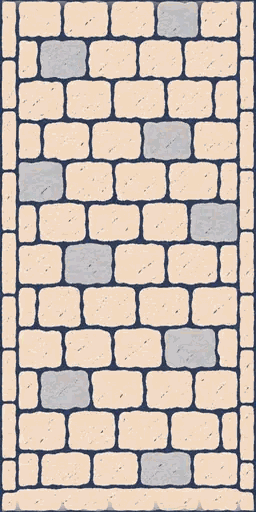
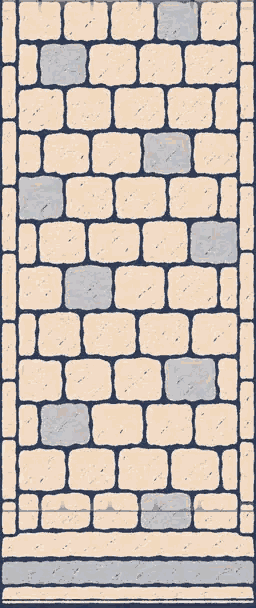
全区の道・門・道ばたの小物を絵に、今日の依頼を達成した日は金の消印。v=67
Claude-Session: https://claude.ai/code/session_01NxsVqWd6E8wULWa2eDL34e

diff --git a/products/word-guild/sw.js b/products/word-guild/sw.js
@@ -1,5 +1,5 @@
-const VERSION = 'c391196c';
-const PRECACHE = ["./album.css","./app.mjs","./art/atenashi.webp","./art/body-action.webp","./art/body-body.webp","./art/body-doc.webp","./art/body-food.webp","./art/body-goods.webp","./art/body-mind.webp","./art/body-money.webp","./art/body-move.webp","./art/body-nature.webp","./art/body-number.webp","./art/body-person.webp","./art/body-place.webp","./art/body-state.webp","./art/body-time.webp","./art/body-tool.webp","./art/body-work.webp","./art/fuurou-normal.webp","./art/fuurou-stamp.webp","./art/gate-2-door-l.webp","./art/gate-2-door-r.webp","./art/gate-2.webp","./art/hatori-normal.webp","./art/hatori-smile.webp","./art/hokoridama.webp","./art/house-1.webp","./art/house-10.webp","./art/house-11.webp","./art/house-12.webp","./art/house-13.webp","./art/house-14.webp","./art/house-15.webp","./art/house-16.webp","./art/house-17.webp","./art/house-18.webp","./art/house-19.webp","./art/house-2.webp","./art/house-20.webp","./art/house-21.webp","./art/house-22.webp","./art/house-23.webp","./art/house-24.webp","./art/house-25.webp","./art/house-26.webp","./art/house-27.webp","./art/house-28.webp","./art/house-29.webp","./art/house-3.webp","./art/house-30.webp","./art/house-31.webp","./art/house-32.webp","./art/house-33.webp","./art/house-34.webp","./art/house-35.webp","./art/house-36.webp","./art/house-37.webp","./art/house-38.webp","./art/house-39.webp","./art/house-4.webp","./art/house-40.webp","./art/house-41.webp","./art/house-42.webp","./art/house-43.webp","./art/house-44.webp","./art/house-45.webp","./art/house-46.webp","./art/house-47.webp","./art/house-48.webp","./art/house-49.webp","./art/house-5.webp","./art/house-50.webp","./art/house-51.webp","./art/house-52.webp","./art/house-53.webp","./art/house-54.webp","./art/house-55.webp","./art/house-56.webp","./art/house-6.webp","./art/house-7.webp","./art/house-8.webp","./art/house-9.webp","./art/icon-180.png","./art/icon-192.png","./art/icon-512.png","./art/keshikasu.webp","./art/key-visual.webp","./art/nijimi.webp","./art/open-2.webp","./art/open-3.webp","./art/oshimi.webp","./art/post-office.webp","./art/road/road-2.webp","./art/shimi.webp","./art/tsumugi-joy.webp","./art/tsumugi-normal.webp","./art/ward-1.webp","./art/ward-2.webp","./art/ward-3.webp","./art/ward-4.webp","./art/ward-5.webp","./art/ward-6.webp","./art/word/c1-001.webp","./art/word/c1-002.webp","./art/word/c1-003.webp","./art/word/c1-004.webp","./art/word/c1-005.webp","./art/word/c1-006.webp","./art/word/c1-007.webp","./art/word/c1-008.webp","./art/word/c1-009.webp","./art/word/c1-010.webp","./art/word/c1-011.webp","./art/word/c1-012.webp","./art/word/c1-013.webp","./art/word/c1-014.webp","./art/word/c1-015.webp","./art/word/c1-016.webp","./art/word/c1-017.webp","./art/word/c1-018.webp","./art/word/c1-019.webp","./art/word/c1-020.webp","./art/word/c1-021.webp","./art/word/c1-022.webp","./art/word/c1-023.webp","./art/word/c1-024.webp","./art/word/c1-025.webp","./art/word/c1-026.webp","./art/word/c1-027.webp","./art/word/c1-028.webp","./art/word/c1-029.webp","./art/word/c1-030.webp","./art/word/c1-031.webp","./art/word/c1-032.webp","./art/word/c1-033.webp","./art/word/c1-034.webp","./art/word/c1-035.webp","./art/word/c1-036.webp","./art/word/c1-037.webp","./art/word/c1-038.webp","./art/word/c1-039.webp","./art/word/c1-040.webp","./art/word/c1-041.webp","./art/word/c1-042.webp","./art/word/c1-043.webp","./art/word/c1-044.webp","./art/word/c1-045.webp","./art/word/c1-046.webp","./art/word/c1-047.webp","./art/word/c1-048.webp","./art/word/c1-049.webp","./art/word/c1-050.webp","./art/word/c1-051.webp","./art/word/c1-052.webp","./art/word/c1-053.webp","./art/word/c1-054.webp","./art/word/c1-055.webp","./art/word/c1-056.webp","./art/word/c1-057.webp","./art/word/c1-058.webp","./art/word/c1-059.webp","./art/word/c1-060.webp","./art/word/c1-061.webp","./art/word/c1-062.webp","./art/word/c1-063.webp","./art/word/c1-064.webp","./art/word/c1-065.webp","./art/word/c1-066.webp","./art/word/c1-067.webp","./art/word/c1-068.webp","./art/word/c1-069.webp","./art/word/c1-070.webp","./art/word/c1-071.webp","./art/word/c1-072.webp","./art/word/c1-073.webp","./art/word/c1-074.webp","./art/word/c1-075.webp","./art/word/c1-076.webp","./art/word/c1-077.webp","./art/word/c1-078.webp","./art/word/c1-079.webp","./art/word/c1-080.webp","./art/word/c1-081.webp","./art/word/c1-082.webp","./art/word/c1-083.webp","./art/word/c1-084.webp","./art/word/c1-085.webp","./art/word/c1-086.webp","./art/word/c1-087.webp","./art/word/c1-088.webp","./art/word/c1-089.webp","./art/word/c1-090.webp","./art/word/c1-091.webp","./art/word/c1-092.webp","./art/word/c2-001.webp","./art/word/c2-002.webp","./art/word/c2-003.webp","./art/word/c2-004.webp","./art/word/c2-005.webp","./art/word/c2-006.webp","./art/word/c2-007.webp","./art/word/c2-008.webp","./art/word/c2-009.webp","./art/word/c2-010.webp","./art/word/c2-011.webp","./art/word/c2-012.webp","./art/word/c2-013.webp","./art/word/c2-014.webp","./art/word/c2-015.webp","./art/word/c2-016.webp","./art/word/c2-017.webp","./art/word/c2-018.webp","./art/word/c2-019.webp","./art/word/c2-020.webp","./art/word/c2-021.webp","./art/word/c2-022.webp","./art/word/c2-023.webp","./art/word/c2-024.webp","./art/word/c2-025.webp","./art/word/c2-026.webp","./art/word/c2-027.webp","./art/word/c2-028.webp","./art/word/c2-029.webp","./art/word/c2-030.webp","./art/word/c2-031.webp","./art/word/c2-032.webp","./art/word/c2-033.webp","./art/word/c2-034.webp","./art/word/c2-035.webp","./art/word/c2-036.webp","./art/word/c2-037.webp","./art/word/c2-038.webp","./art/word/c2-039.webp","./art/word/c2-040.webp","./art/word/c2-041.webp","./art/word/c2-042.webp","./art/word/c2-043.webp","./art/word/c2-044.webp","./art/word/c2-045.webp","./art/word/c2-046.webp","./art/word/c2-047.webp","./art/word/c2-048.webp","./art/word/c2-049.webp","./art/word/c2-050.webp","./art/word/c2-051.webp","./art/word/c2-052.webp","./art/word/c2-053.webp","./art/word/c2-054.webp","./art/word/c2-055.webp","./art/word/c2-056.webp","./art/word/c2-057.webp","./art/word/c2-058.webp","./art/word/c2-059.webp","./art/word/c2-060.webp","./art/word/c2-061.webp","./art/word/c2-062.webp","./art/word/c2-063.webp","./art/word/c2-064.webp","./art/word/c2-065.webp","./art/word/c2-066.webp","./art/word/c2-067.webp","./art/word/c2-068.webp","./art/word/c2-069.webp","./art/word/c2-070.webp","./art/word/c2-071.webp","./art/word/c2-072.webp","./art/word/c2-073.webp","./art/word/c2-074.webp","./art/word/c2-075.webp","./art/word/c2-076.webp","./art/word/c2-077.webp","./art/word/c2-078.webp","./art/word/c2-079.webp","./art/word/c2-080.webp","./art/word/c2-081.webp","./art/word/c2-083.webp","./art/word/c2-085.webp","./art/word/c2-086.webp","./art/word/c2-087.webp","./art/word/c2-088.webp","./art/word/c2-089.webp","./art/word/c2-090.webp","./art/word/c2-091.webp","./art/word/c2-092.webp","./art/word/c2-093.webp","./art/word/c2-094.webp","./art/word/c2-095.webp","./art/word/c2-096.webp","./art/word/c2-097.webp","./art/word/c2-098.webp","./art/word/c2-099.webp","./art/word/c2-100.webp","./art/word/c2-101.webp","./art/word/c2-102.webp","./art/word/c2-103.webp","./art/word/c2-104.webp","./art/word/c2-105.webp","./art/word/c2-106.webp","./art/word/c2-107.webp","./art/word/c2-108.webp","./art/word/c2-109.webp","./art/word/c2-110.webp","./art/word/c2-111.webp","./art/word/c2-112.webp","./art/word/c2-113.webp","./art/word/c2-114.webp","./art/word/c2-115.webp","./art/word/c2-116.webp","./art/word/c2-117.webp","./art/word/c2-118.webp","./art/word/c2-119.webp","./art/word/c2-120.webp","./art/word/c2-121.webp","./art/word/c2-122.webp","./art/word/c2-123.webp","./art/word/c2-124.webp","./art/word/c2-125.webp","./art/word/c2-130.webp","./art/word/c2-131.webp","./art/word/c2-132.webp","./art/word/c2-133.webp","./art/word/c2-134.webp","./art/word/c2-135.webp","./art/word/c2-136.webp","./art/word/c2-137.webp","./art/word/c2-138.webp","./art/word/c2-139.webp","./art/word/c2-140.webp","./art/word/c2-141.webp","./art/word/c2-142.webp","./art/word/c2-143.webp","./art/word/c2-144.webp","./art/word/c2-145.webp","./art/word/c2-146.webp","./art/word/c2-147.webp","./art/word/c2-148.webp","./art/word/c2-149.webp","./art/word/c2-150.webp","./art/word/c2-151.webp","./art/word/c2-152.webp","./art/word/c2-153.webp","./art/word/c2-154.webp","./art/word/c2-155.webp","./art/word/c2-156.webp","./art/word/c2-157.webp","./art/word/c2-158.webp","./art/word/c2-159.webp","./art/word/c2-160.webp","./art/word/c2-161.webp","./art/word/c2-162.webp","./art/word/c2-163.webp","./data/chara.json","./data/house-doors.json","./data/rare.json","./data/scenes.json","./data/stage-names.json","./data/story-allow.json","./data/story-ps.json","./data/story.json","./data/wordart.json","./data/words.json","./guild/album.mjs","./guild/art.mjs","./guild/board.mjs","./guild/chapters.mjs","./guild/chara-svg.mjs","./guild/chara.mjs","./guild/cinema.mjs","./guild/credits.mjs","./guild/daily.mjs","./guild/dom.mjs","./guild/library.mjs","./guild/map.mjs","./guild/music.mjs","./guild/pwa.mjs","./guild/quest.mjs","./guild/rare.mjs","./guild/rng.mjs","./guild/settings.mjs","./guild/srs.mjs","./guild/stages.mjs","./guild/store.mjs","./guild/story.mjs","./guild/trace.mjs","./guild/view.mjs","./guild/words.mjs","./index.html","./letter.css","./manifest.webmanifest","./map.css","./style.css"];
+const VERSION = '264b59bd';
+const PRECACHE = ["./album.css","./app.mjs","./art/atenashi.webp","./art/body-action.webp","./art/body-body.webp","./art/body-doc.webp","./art/body-food.webp","./art/body-goods.webp","./art/body-mind.webp","./art/body-money.webp","./art/body-move.webp","./art/body-nature.webp","./art/body-number.webp","./art/body-person.webp","./art/body-place.webp","./art/body-state.webp","./art/body-time.webp","./art/body-tool.webp","./art/body-work.webp","./art/fuurou-normal.webp","./art/fuurou-stamp.webp","./art/gate-1-door-l.webp","./art/gate-1-door-r.webp","./art/gate-1-door.webp","./art/gate-1.webp","./art/gate-2-door-l.webp","./art/gate-2-door-r.webp","./art/gate-2-door.webp","./art/gate-2.webp","./art/gate-3-door-l.webp","./art/gate-3-door-r.webp","./art/gate-3-door.webp","./art/gate-3.webp","./art/gate-4-door-l.webp","./art/gate-4-door-r.webp","./art/gate-4-door.webp","./art/gate-4.webp","./art/gate-5-door-l.webp","./art/gate-5-door-r.webp","./art/gate-5-door.webp","./art/gate-5.webp","./art/gate-6-door-l.webp","./art/gate-6-door-r.webp","./art/gate-6-door.webp","./art/gate-6.webp","./art/hatori-normal.webp","./art/hatori-smile.webp","./art/hokoridama.webp","./art/house-1.webp","./art/house-10.webp","./art/house-11.webp","./art/house-12.webp","./art/house-13.webp","./art/house-14.webp","./art/house-15.webp","./art/house-16.webp","./art/house-17.webp","./art/house-18.webp","./art/house-19.webp","./art/house-2.webp","./art/house-20.webp","./art/house-21.webp","./art/house-22.webp","./art/house-23.webp","./art/house-24.webp","./art/house-25.webp","./art/house-26.webp","./art/house-27.webp","./art/house-28.webp","./art/house-29.webp","./art/house-3.webp","./art/house-30.webp","./art/house-31.webp","./art/house-32.webp","./art/house-33.webp","./art/house-34.webp","./art/house-35.webp","./art/house-36.webp","./art/house-37.webp","./art/house-38.webp","./art/house-39.webp","./art/house-4.webp","./art/house-40.webp","./art/house-41.webp","./art/house-42.webp","./art/house-43.webp","./art/house-44.webp","./art/house-45.webp","./art/house-46.webp","./art/house-47.webp","./art/house-48.webp","./art/house-49.webp","./art/house-5.webp","./art/house-50.webp","./art/house-51.webp","./art/house-52.webp","./art/house-53.webp","./art/house-54.webp","./art/house-55.webp","./art/house-56.webp","./art/house-6.webp","./art/house-7.webp","./art/house-8.webp","./art/house-9.webp","./art/icon-180.png","./art/icon-192.png","./art/icon-512.png","./art/keshikasu.webp","./art/key-visual.webp","./art/map-art.mjs","./art/nijimi.webp","./art/open-2.webp","./art/open-3.webp","./art/oshimi.webp","./art/post-office.webp","./art/road/props-1.webp","./art/road/props-2.webp","./art/road/props-3.webp","./art/road/props-4.webp","./art/road/props-5.webp","./art/road/props-6.webp","./art/road/road-1.webp","./art/road/road-2.webp","./art/road/road-3.webp","./art/road/road-4.webp","./art/road/road-5.webp","./art/road/road-6.webp","./art/shimi.webp","./art/tsumugi-joy.webp","./art/tsumugi-normal.webp","./art/ward-1.webp","./art/ward-2.webp","./art/ward-3.webp","./art/ward-4.webp","./art/ward-5.webp","./art/ward-6.webp","./art/word/c1-001.webp","./art/word/c1-002.webp","./art/word/c1-003.webp","./art/word/c1-004.webp","./art/word/c1-005.webp","./art/word/c1-006.webp","./art/word/c1-007.webp","./art/word/c1-008.webp","./art/word/c1-009.webp","./art/word/c1-010.webp","./art/word/c1-011.webp","./art/word/c1-012.webp","./art/word/c1-013.webp","./art/word/c1-014.webp","./art/word/c1-015.webp","./art/word/c1-016.webp","./art/word/c1-017.webp","./art/word/c1-018.webp","./art/word/c1-019.webp","./art/word/c1-020.webp","./art/word/c1-021.webp","./art/word/c1-022.webp","./art/word/c1-023.webp","./art/word/c1-024.webp","./art/word/c1-025.webp","./art/word/c1-026.webp","./art/word/c1-027.webp","./art/word/c1-028.webp","./art/word/c1-029.webp","./art/word/c1-030.webp","./art/word/c1-031.webp","./art/word/c1-032.webp","./art/word/c1-033.webp","./art/word/c1-034.webp","./art/word/c1-035.webp","./art/word/c1-036.webp","./art/word/c1-037.webp","./art/word/c1-038.webp","./art/word/c1-039.webp","./art/word/c1-040.webp","./art/word/c1-041.webp","./art/word/c1-042.webp","./art/word/c1-043.webp","./art/word/c1-044.webp","./art/word/c1-045.webp","./art/word/c1-046.webp","./art/word/c1-047.webp","./art/word/c1-048.webp","./art/word/c1-049.webp","./art/word/c1-050.webp","./art/word/c1-051.webp","./art/word/c1-052.webp","./art/word/c1-053.webp","./art/word/c1-054.webp","./art/word/c1-055.webp","./art/word/c1-056.webp","./art/word/c1-057.webp","./art/word/c1-058.webp","./art/word/c1-059.webp","./art/word/c1-060.webp","./art/word/c1-061.webp","./art/word/c1-062.webp","./art/word/c1-063.webp","./art/word/c1-064.webp","./art/word/c1-065.webp","./art/word/c1-066.webp","./art/word/c1-067.webp","./art/word/c1-068.webp","./art/word/c1-069.webp","./art/word/c1-070.webp","./art/word/c1-071.webp","./art/word/c1-072.webp","./art/word/c1-073.webp","./art/word/c1-074.webp","./art/word/c1-075.webp","./art/word/c1-076.webp","./art/word/c1-077.webp","./art/word/c1-078.webp","./art/word/c1-079.webp","./art/word/c1-080.webp","./art/word/c1-081.webp","./art/word/c1-082.webp","./art/word/c1-083.webp","./art/word/c1-084.webp","./art/word/c1-085.webp","./art/word/c1-086.webp","./art/word/c1-087.webp","./art/word/c1-088.webp","./art/word/c1-089.webp","./art/word/c1-090.webp","./art/word/c1-091.webp","./art/word/c1-092.webp","./art/word/c2-001.webp","./art/word/c2-002.webp","./art/word/c2-003.webp","./art/word/c2-004.webp","./art/word/c2-005.webp","./art/word/c2-006.webp","./art/word/c2-007.webp","./art/word/c2-008.webp","./art/word/c2-009.webp","./art/word/c2-010.webp","./art/word/c2-011.webp","./art/word/c2-012.webp","./art/word/c2-013.webp","./art/word/c2-014.webp","./art/word/c2-015.webp","./art/word/c2-016.webp","./art/word/c2-017.webp","./art/word/c2-018.webp","./art/word/c2-019.webp","./art/word/c2-020.webp","./art/word/c2-021.webp","./art/word/c2-022.webp","./art/word/c2-023.webp","./art/word/c2-024.webp","./art/word/c2-025.webp","./art/word/c2-026.webp","./art/word/c2-027.webp","./art/word/c2-028.webp","./art/word/c2-029.webp","./art/word/c2-030.webp","./art/word/c2-031.webp","./art/word/c2-032.webp","./art/word/c2-033.webp","./art/word/c2-034.webp","./art/word/c2-035.webp","./art/word/c2-036.webp","./art/word/c2-037.webp","./art/word/c2-038.webp","./art/word/c2-039.webp","./art/word/c2-040.webp","./art/word/c2-041.webp","./art/word/c2-042.webp","./art/word/c2-043.webp","./art/word/c2-044.webp","./art/word/c2-045.webp","./art/word/c2-046.webp","./art/word/c2-047.webp","./art/word/c2-048.webp","./art/word/c2-049.webp","./art/word/c2-050.webp","./art/word/c2-051.webp","./art/word/c2-052.webp","./art/word/c2-053.webp","./art/word/c2-054.webp","./art/word/c2-055.webp","./art/word/c2-056.webp","./art/word/c2-057.webp","./art/word/c2-058.webp","./art/word/c2-059.webp","./art/word/c2-060.webp","./art/word/c2-061.webp","./art/word/c2-062.webp","./art/word/c2-063.webp","./art/word/c2-064.webp","./art/word/c2-065.webp","./art/word/c2-066.webp","./art/word/c2-067.webp","./art/word/c2-068.webp","./art/word/c2-069.webp","./art/word/c2-070.webp","./art/word/c2-071.webp","./art/word/c2-072.webp","./art/word/c2-073.webp","./art/word/c2-074.webp","./art/word/c2-075.webp","./art/word/c2-076.webp","./art/word/c2-077.webp","./art/word/c2-078.webp","./art/word/c2-079.webp","./art/word/c2-080.webp","./art/word/c2-081.webp","./art/word/c2-083.webp","./art/word/c2-085.webp","./art/word/c2-086.webp","./art/word/c2-087.webp","./art/word/c2-088.webp","./art/word/c2-089.webp","./art/word/c2-090.webp","./art/word/c2-091.webp","./art/word/c2-092.webp","./art/word/c2-093.webp","./art/word/c2-094.webp","./art/word/c2-095.webp","./art/word/c2-096.webp","./art/word/c2-097.webp","./art/word/c2-098.webp","./art/word/c2-099.webp","./art/word/c2-100.webp","./art/word/c2-101.webp","./art/word/c2-102.webp","./art/word/c2-103.webp","./art/word/c2-104.webp","./art/word/c2-105.webp","./art/word/c2-106.webp","./art/word/c2-107.webp","./art/word/c2-108.webp","./art/word/c2-109.webp","./art/word/c2-110.webp","./art/word/c2-111.webp","./art/word/c2-112.webp","./art/word/c2-113.webp","./art/word/c2-114.webp","./art/word/c2-115.webp","./art/word/c2-116.webp","./art/word/c2-117.webp","./art/word/c2-118.webp","./art/word/c2-119.webp","./art/word/c2-120.webp","./art/word/c2-121.webp","./art/word/c2-122.webp","./art/word/c2-123.webp","./art/word/c2-124.webp","./art/word/c2-125.webp","./art/word/c2-130.webp","./art/word/c2-131.webp","./art/word/c2-132.webp","./art/word/c2-133.webp","./art/word/c2-134.webp","./art/word/c2-135.webp","./art/word/c2-136.webp","./art/word/c2-137.webp","./art/word/c2-138.webp","./art/word/c2-139.webp","./art/word/c2-140.webp","./art/word/c2-141.webp","./art/word/c2-142.webp","./art/word/c2-143.webp","./art/word/c2-144.webp","./art/word/c2-145.webp","./art/word/c2-146.webp","./art/word/c2-147.webp","./art/word/c2-148.webp","./art/word/c2-149.webp","./art/word/c2-150.webp","./art/word/c2-151.webp","./art/word/c2-152.webp","./art/word/c2-153.webp","./art/word/c2-154.webp","./art/word/c2-155.webp","./art/word/c2-156.webp","./art/word/c2-157.webp","./art/word/c2-158.webp","./art/word/c2-159.webp","./art/word/c2-160.webp","./art/word/c2-161.webp","./art/word/c2-162.webp","./art/word/c2-163.webp","./data/chara.json","./data/house-doors.json","./data/rare.json","./data/scenes.json","./data/stage-names.json","./data/story-allow.json","./data/story-ps.json","./data/story.json","./data/wordart.json","./data/words.json","./guild/album.mjs","./guild/art.mjs","./guild/board.mjs","./guild/chapters.mjs","./guild/chara-svg.mjs","./guild/chara.mjs","./guild/cinema.mjs","./guild/credits.mjs","./guild/daily.mjs","./guild/dom.mjs","./guild/library.mjs","./guild/map.mjs","./guild/music.mjs","./guild/pwa.mjs","./guild/quest.mjs","./guild/rare.mjs","./guild/rng.mjs","./guild/settings.mjs","./guild/srs.mjs","./guild/stages.mjs","./guild/store.mjs","./guild/story.mjs","./guild/trace.mjs","./guild/view.mjs","./guild/words.mjs","./index.html","./letter.css","./manifest.webmanifest","./map.css","./style.css"];
 const CACHE = `wg-shell-${VERSION}`;
 const shellURL = new URL('./index.html', self.location.href).href;
 self.addEventListener('install', event => {

diff --git a/products/word-guild/map.css b/products/word-guild/map.css
@@ -152,7 +152,7 @@
 .gq-house-image{position:absolute;inset:0}
 .gq-house.door-flipped .gq-house-image{transform:scaleX(-1)}
 
-/* G0: Canvasは既存の道の上、家・人物の下。2区以外は透明。 */
+/* Canvasは道の上、家・人物の下。 */
 .gq-road-cv{position:absolute;inset:0;width:100%;height:100%;pointer-events:none;z-index:1}
 .gq-gate.gq-gate-art{display:block;width:232px;height:232px;margin:-187px 0 0 -116px;font-size:0}
 .gq-gate-art img{position:absolute;display:block;pointer-events:none}
@@ -184,3 +184,28 @@
 .gq-fog-ovals i:nth-child(3){left:12px;top:28px}
 
 .gq-gate-tag{top:-200px;z-index:1;pointer-events:none}.gq-bb-gate .gq-gate:not(.gq-gate-art)~.gq-gate-tag{top:-78px}
+/* 道ばたと消印。画像が使えない場合は既存の帯を残す。 */
+.gq-pm.daily{color:#e7b04a;opacity:1}.gq-pm.daily svg{stroke:#e7b04a;stroke-width:2}.gq-pm.daily path{fill:#e7b04a;stroke:none}.gq-pm.daily text{fill:var(--ink)}
+.gq-step{width:26px;height:12px;margin:-6px 0 0 -13px;border-width:2px;border-radius:50%}
+.gq-step.done{box-shadow:inset 0 0 0 1px var(--paper)}.gq-step.todo{background:var(--fog-lt)}
+.gq-step.here{width:28px;height:14px;margin:-7px 0 0 -14px;border-width:2px}
+.gq-lamp-node{width:40px;height:40px;margin:-40px 0 0 -20px}.gq-lamp-node b{font-size:13px}.gq-lamp-node small{font-size:8px}
+.gq-gate-art .gq-gate-door{top:var(--door-y);width:var(--door-w);height:var(--door-h)}
+.gq-gate-art .gq-gate-door-l{left:var(--door-x)}.gq-gate-art .gq-gate-door-r{left:calc(var(--door-x) + var(--door-w))}
+.gq-gate-fallback{display:none}.gq-gate-art.art-failed img,.gq-gate-art.art-failed .gq-gate-card{display:none}
+.gq-gate-art.art-failed .gq-gate-fallback{display:block;position:absolute;inset:40% 28% 18%;border:8px solid var(--ink);border-bottom:0;background:var(--fog-lt)}
+.gq-gate-art.art-failed.cleared .gq-gate-fallback{background:transparent}
+.gq-gate-art.open::before{content:"";position:absolute;inset:var(--door-y) 48% 18%;background:var(--lamp);box-shadow:0 0 8px var(--lamp);animation:gq-door-light 3s ease-in-out infinite}
+.gq-gate-art.cleared::before{content:"";position:absolute;inset:20% 30% 60%;background:radial-gradient(ellipse,#f2b84b99,transparent 70%)}
+@keyframes gq-door-light{50%{opacity:.35}}
+@media(prefers-reduced-motion:reduce){.gq-gate-art.open::before{animation:none}}
+.gq-road-svg .edge{stroke-width:1.5;opacity:.35}
+.gq-gate-number{position:absolute;left:46%;top:40%;width:18px;height:16px;border:1px solid var(--ink);border-radius:3px;background:var(--paper);color:var(--ink);font-size:11px;line-height:14px}
+.gq-gate-mist{position:absolute;top:40%;left:-15%;width:100%;height:65%;background:radial-gradient(ellipse,var(--fog-lt),transparent 70%);opacity:.8;pointer-events:none}.gq-gate-mist.b{left:15%;top:50%}
+.gq-gate-art.cleared .gq-gate-mist{display:none}.gq-gate-art.open .gq-gate-mist{animation:gq-gate-mist 7s ease-in-out infinite alternate}.gq-gate-art.open .gq-gate-mist.b{animation-direction:alternate-reverse}
+@keyframes gq-gate-mist{to{transform:translateX(12%)}}
+@media(prefers-reduced-motion:reduce){.gq-gate-art.open .gq-gate-mist{animation:none}}
+.gq-pm.daily circle{stroke:#e7b04a;stroke-width:2;stroke-dasharray:none}
+
+/* 今日の依頼を達成した日：金の封蝋の消印 */
+.gq-pm.daily svg{overflow:visible}.gq-pm.daily circle:first-of-type{fill:#f3d366;stroke:#b98512;stroke-width:2.4}.gq-pm.daily circle:nth-of-type(2){fill:none;stroke:#fff6d0;stroke-width:1.2}.gq-pm.daily text{fill:#5a3d00;font-weight:800}.gq-pm.daily .gq-pm-star{fill:#c8462f;stroke:#fff;stroke-width:1}.gq-pm.daily{filter:none;box-shadow:none}.gq-pm.daily svg{animation:none}

diff --git a/products/word-guild/index.html b/products/word-guild/index.html
@@ -1,2 +1,2 @@
 <!doctype html>
-<html lang="ja"><head><meta charset="utf-8"><meta name="viewport" content="width=device-width,initial-scale=1,viewport-fit=cover"><meta name="theme-color" content="#1f2a44"><meta name="apple-mobile-web-app-capable" content="yes"><meta name="apple-mobile-web-app-title" content="霧晴れ郵便局"><link rel="manifest" href="manifest.webmanifest"><link id="apple-icon" rel="apple-touch-icon" href="art/icon-180.png"><link rel="stylesheet" href="style.css?v=66"><title>霧晴れ郵便局</title></head><body><main><section id="view" aria-label="ゲーム画面"></section><div id="status" role="status"></div></main><script type="module" src="app.mjs?v=66"></script></body></html>
+<html lang="ja"><head><meta charset="utf-8"><meta name="viewport" content="width=device-width,initial-scale=1,viewport-fit=cover"><meta name="theme-color" content="#1f2a44"><meta name="apple-mobile-web-app-capable" content="yes"><meta name="apple-mobile-web-app-title" content="霧晴れ郵便局"><link rel="manifest" href="manifest.webmanifest"><link id="apple-icon" rel="apple-touch-icon" href="art/icon-180.png"><link rel="stylesheet" href="style.css?v=67"><title>霧晴れ郵便局</title></head><body><main><section id="view" aria-label="ゲーム画面"></section><div id="status" role="status"></div></main><script type="module" src="app.mjs?v=67"></script></body></html>

diff --git a/lab/cinema/index.html b/lab/cinema/index.html
@@ -35,7 +35,7 @@ p{margin:0;font-size:12px;color:#6f6a5c;line-height:1.6}
   <p>途中でタップすると早送り。最後の状態でタップすると閉じる。手紙は story.json の shelf 1、場面の文は仮。</p>
 </div>
 <script type="module">
-import {playLetterComplete, playGateCard} from '../../products/word-guild/guild/cinema.mjs';
+import {playLetterComplete, playGateCard, playGateOpen} from '../../products/word-guild/guild/cinema.mjs';
 const base = '../../products/word-guild/';
 const story = await (await fetch(base + 'data/story.json')).json();
 const stage = document.getElementById('stage'), $ = id => document.getElementById(id);
@@ -50,6 +50,7 @@ const q = new URLSearchParams(location.search);
 if (q.get('ward')) $('ward').value = q.get('ward');
 if (q.get('n')) $('line').value = q.get('n');
 $('still').checked = q.has('still'); $('noscene').checked = q.has('noscene');
+if (q.get('play') === 'open') playGateOpen(stage, {ward:+$('ward').value,base,reduced:still()}).then(() => document.body.dataset.done = '1');
 if (q.get('play') === 'letter') letter().then(() => document.body.dataset.done = '1');
 if (q.get('play') === 'gate') gate().then(() => document.body.dataset.done = '1');
 </script>

diff --git a/tools/art-export.py b/tools/art-export.py
@@ -138,11 +138,79 @@ def export_map2():
     print('gate-2', save_webp(gate.resize((512,512), Image.LANCZOS), OUT / 'gate-2.webp', 70), 'KB')
 
 
+# 原画に対する割合。2区は承認済みの切り出しを保持する。
+GATE_RECTS = {1:(.30,.48,.40,.35), 2:(500/1536,700/1536,536/1536,490/1536),
+              3:(.28,.52,.43,.34), 4:(.28,.51,.44,.35),
+              5:(.29,.49,.42,.38), 6:(.31,.51,.38,.34)}
+
+def export_map():
+    import json
+    dest = OUT / 'road'
+    dest.mkdir(exist_ok=True)
+    available = {'roads': [], 'gates': [], 'props': []}
+    for n in range(1,7):
+        for kind in ('road', 'gate', 'props'):
+            try:
+                path = WORK / f'{kind}-{n}.{"webp" if kind == "road" else "png"}'
+                with Image.open(path) as source:
+                    source.load()
+                    im = source.convert('RGBA')
+                if kind == 'road':
+                    im = im.resize((256,608), Image.LANCZOS)
+                    original = im.copy()
+                    for y in range(16):
+                        blend = Image.blend(original.crop((0,y,256,y+1)), original.crop((0,511-y,256,512-y)), .5)
+                        for row in (y,511-y):
+                            im.paste(Image.blend(original.crop((0,row,256,row+1)),blend,(1-y/16)**2),(0,row))
+                    target = dest / f'road-{n}.webp'
+                    for colors in (128,64,32,16):
+                        im.quantize(colors).convert('RGBA').save(target,'WEBP',lossless=True,method=6)
+                        if target.stat().st_size <= 45*1024: break
+                    with Image.open(target) as check:
+                        assert check.crop((0,0,256,1)).tobytes() == check.crop((0,511,256,512)).tobytes()
+                    available['roads'].append(n)
+                elif kind == 'props':
+                    source = key_out_green(im)
+                    im = Image.new('RGBA',(768,512))
+                    for cell in range(6):
+                        cw,ch=source.width//3,source.height//2
+                        left,top=(cell%3)*cw,(cell//3)*ch
+                        sprite=source.crop((left+8,top+8,left+cw-8,top+ch-8))
+                        box=sprite.getchannel('A').point(lambda v:255 if v>32 else 0).getbbox()
+                        if box:
+                            sprite=sprite.crop(box)
+                            sprite.thumbnail((240,240),Image.LANCZOS)
+                            im.paste(sprite,((cell%3)*256+(256-sprite.width)//2,(cell//3)*256+256-sprite.height))
+                    save_webp(im,dest / f'props-{n}.webp',70)
+                    available['props'].append(n)
+                else:
+                    im = remove_alpha_specks(im)
+                    x,y,w,h = GATE_RECTS[n]
+                    x0,y0,x1,y1 = round(x*im.width),round(y*im.height),round((x+w)*im.width),round((y+h)*im.height)
+                    mid=(x0+x1)//2
+                    door=im.crop((x0,y0,x1,y1))
+                    save_webp(door.resize((round(w*512),round(h*512)),Image.LANCZOS),OUT / f'gate-{n}-door.webp',40)
+                    for side,box in [('l',(x0,y0,mid,y1)),('r',(mid,y0,x1,y1))]:
+                        leaf=im.crop(box).resize((round(w*256),round(h*512)),Image.LANCZOS)
+                        save_webp(leaf,OUT / f'gate-{n}-door-{side}.webp',40)
+                    im.paste((0,0,0,0),(x0,y0,x1,y1))
+                    save_webp(im.resize((512,512),Image.LANCZOS),OUT / f'gate-{n}.webp',70)
+                    available['gates'].append(n)
+                print(kind,n,'OK')
+            except (OSError,ValueError,AssertionError) as error:
+                print(kind,n,'従来表示:',error)
+    (OUT / 'map-art.mjs').write_text('export const MAP_ART = '+json.dumps(available)+';\nexport const GATE_RECTS = '+json.dumps(GATE_RECTS)+';\n')
+
+
 def main():
     parser = argparse.ArgumentParser(description=__doc__)
     parser.add_argument('--word', action='store_true', help='単語の意味の絵だけを書き出す')
+    parser.add_argument('--map', action='store_true', help='全区の道・門・小物を書き出す')
     parser.add_argument('--map2', action='store_true', help='2区の道と門だけを書き出す')
     args = parser.parse_args()
+    if args.map:
+        export_map()
+        return
     if args.map2:
         export_map2()
         return
